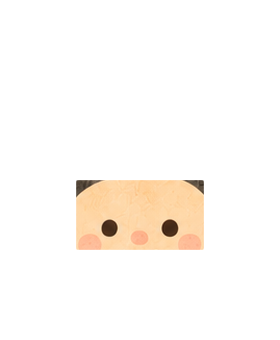
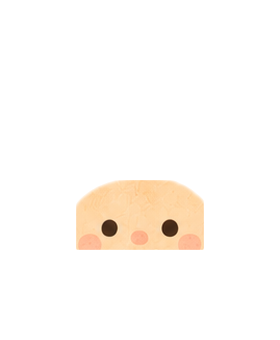
fix(game): 似顔絵の色のまちがいを二つ直した
■ 髪の色を変えても、こめかみに黒が残っていた
目と口は「肌ごと四角で貼りかえる」部品なのに、シートのもみあげの黒が
四角の角に入りこんでいた。目の層は髪の色を塗りかえないので、そこだけ
絵のままの黒で残ってしまっていた。金髪にすると目立つ。

髪は頭のてっぺんから続く大きなかたまり、目やまゆは顔のまんなかに
ぽつんとあるかたまり。この違いで切り分けて、髪のほうを部品から外した。
つり目のまゆは残っている。

■ 髪とひげの色がそろっていなかった
塗りかえの基準を、髪の明るさ（52くらい）に決め打ちしていた。
ところがひげの絵は髪より明るく描かれていて（93くらい）、掛け算が
振り切れて白く飛んでいた。

基準を「その絵じたいの平均の明るさ」に変え、平均のところがちょうど
えらんだ色になり、そこから暗いほう・明るいほうへ伸びる帯にのせ替える
ようにした。どの濃さの絵でも飛ばない。

あわせて、ひげは色をえらんでいなくても髪に合わせるようにした。
ひげの絵はもともと髪より明るい茶色なので、「絵のまま」でも髪とそろわ
なかったため。

■ 見張りを足した
  ・目と口の部品の暗い所が、顔のまんなかに収まっていること
    （髪が入りこむと横に広がるので、すぐ分かる）
  ・6色すべてで、髪とひげの色がそろっていること

Claude-Session: https://claude.ai/code/session_01YDGfKaHsr8bouS724EEhR3

Changed region(s): [[0.2571, 0.5294, 0.4286, 0.6176], [0.6, 0.5294, 0.7429, 0.5882]]

diff --git a/game/index.html b/game/index.html
@@ -1223,11 +1223,11 @@ const AV_ART = {
[16 lines of base64/hex data omitted]
@@ -1296,9 +1296,20 @@ function avLoad() {
   });
 }
 
-/* ---------- 色の塗りかえ ---------- */
-const AV_BASE_HAIR_LUM = (0x3a + 0x2c + 0x22) / 3;
+/* ---------- 色の塗りかえ ----------
+   絵は一色ぶんしかないので、明暗をたよりに色だけ移しかえる。
+
+   気をつけたのは、**絵によって濃さがちがう**こと。
+   髪は平均の明るさが 52 くらい、ひげは 93 くらいで、ずいぶんちがう。
+   決まった値を基準にすると、うすい絵（ひげ）のときに掛け算が
+   振り切れて、白っぽく飛んでしまう。
+   そこで、**その絵じたいの平均の明るさ**を基準にして、
+   「暗いほう → えらんだ色 → 明るいほう」の帯にのせ替えている。
+
+   いちばん左の色（絵のままの色）をえらんだときは、何もしない。 */
+const AV_BASE_HAIR_LUM = (0x3a + 0x2c + 0x22) / 3;   // 絵が無いときの控え
 const AV_BASE_SKIN = [0xfe, 0xd6, 0xa7];
+const AV_HAIR_MAX = 140;        // これより暗ければ「髪」とみなす
 const hex2rgb = (h) => [1, 3, 5].map(i => parseInt(h.slice(i, i + 2), 16));
 
 /* 部品ごとに、どこを塗りかえるか */
@@ -1325,19 +1336,46 @@ function avLayer(key, hairIdx, skinIdx) {
   const g = c.getContext("2d", { willReadFrequently: true });
   g.drawImage(img, 0, 0);
 
-  if (t.hair || t.skin) {
+  /* 0番（絵のままの色）のときは、絵をそのまま使う。
+     ただし**ひげだけは別**。ひげの絵は髪より明るい茶色で描かれているので、
+     そのままだと髪と色がそろわない。色をえらんでいなくても髪に合わせる */
+  const isBeard = avKind(key) === "beard";
+  const doHair = t.hair && (hairIdx > 0 || isBeard);
+  const doSkin = t.skin && skinIdx > 0;
+  if (doHair || doSkin) {
     const hair = hex2rgb(AV_HAIR_COLOR[hairIdx] || AV_HAIR_COLOR[0]);
     const skin = hex2rgb(AV_SKIN[skinIdx] || AV_SKIN[0]);
     const d = g.getImageData(0, 0, c.width, c.height), p = d.data;
+
+    /* ひとまわり目：この絵の「髪にあたる所」の明るさの平均を出す */
+    let ref = AV_BASE_HAIR_LUM;
+    if (doHair) {
+      let sum = 0, n = 0;
+      for (let i = 0; i < p.length; i += 4) {
+        if (p[i + 3] < 20) continue;
+        const lum = (p[i] + p[i + 1] + p[i + 2]) / 3;
+        if (lum < AV_HAIR_MAX) { sum += lum; n++; }
+      }
+      if (n > 40) ref = sum / n;
+    }
+    /* 平均のところがちょうど えらんだ色 になり、
+       そこから暗いほう・明るいほうへ伸びる帯をつくる */
+    const dk = hair.map(v => v * 0.45);
+    const lt = hair.map(v => v + (255 - v) * 0.40);
+
+    /* ふたまわり目：塗りかえる */
     for (let i = 0; i < p.length; i += 4) {
       if (p[i + 3] < 20) continue;
       const lum = (p[i] + p[i + 1] + p[i + 2]) / 3;
-      if (t.hair && lum < 140) {
-        const k = lum / AV_BASE_HAIR_LUM;              // 明暗の具合は残す
-        p[i]     = Math.min(255, hair[0] * k);
-        p[i + 1] = Math.min(255, hair[1] * k);
-        p[i + 2] = Math.min(255, hair[2] * k);
-      } else if (t.skin && lum >= 150 && p[i] > p[i + 2] + 35) {
+      if (doHair && lum < AV_HAIR_MAX) {
+        const r = lum / ref;
+        if (r <= 1) {
+          for (let k = 0; k < 3; k++) p[i + k] = dk[k] + (hair[k] - dk[k]) * r;
+        } else {
+          const u = Math.min(1, r - 1);
+          for (let k = 0; k < 3; k++) p[i + k] = hair[k] + (lt[k] - hair[k]) * u;
+        }
+      } else if (doSkin && lum >= 150 && p[i] > p[i + 2] + 35) {
         p[i]     = Math.min(255, p[i]     * skin[0] / AV_BASE_SKIN[0]);
         p[i + 1] = Math.min(255, p[i + 1] * skin[1] / AV_BASE_SKIN[1]);
         p[i + 2] = Math.min(255, p[i + 2] * skin[2] / AV_BASE_SKIN[2]);

diff --git a/art/avatar/tools/av-art.js b/art/avatar/tools/av-art.js
@@ -19,11 +19,11 @@ const AV_ART = {
[16 lines of base64/hex data omitted]

diff --git a/art/avatar/tools/build2.py b/art/avatar/tools/build2.py
@@ -48,12 +48,30 @@ def soft_rect(x0, y0, x1, y1, feather=3.0):
     m = np.zeros((H, W), np.float32); m[y0:y1, x0:x1] = 1
     return ndimage.gaussian_filter(m, feather)
 
+def not_hair(img):
+    """髪をよけたところを返す。
+       髪は頭のてっぺんから続く大きなかたまりなので、
+       顔のまんなかにぽつんとある目やまゆの黒とは切り離せる。
+       目の部品にもみあげが入りこむと、髪の色を変えたときに
+       そこだけ黒く残ってしまうため。"""
+    d = dark(img, 152)
+    lab, n = ndimage.label(d)
+    hair = np.zeros((H, W), bool)
+    for i in range(1, n + 1):
+        c = (lab == i)
+        ys, _ = np.where(c)
+        if ys.min() < 165 and c.sum() > 500:
+            hair |= c
+    soft = ndimage.gaussian_filter(
+        ndimage.binary_dilation(hair, np.ones((7, 7), bool)).astype(np.float32), 2.0)
+    return np.clip(1.0 - soft * 1.6, 0, 1)
+
 def cut_rect_and_mask(img, rect, mask, grow=2, blur=1.1):
     """四角（肌ごと貼りかえ）と、はみ出す部分（まゆなど）を合わせて抜く"""
     rm = soft_rect(*rect)
     mm = ndimage.binary_dilation(mask, np.ones((grow*2+1,)*2, bool))
     mm = np.clip((ndimage.gaussian_filter(mm.astype(np.float32), blur) - .35) / .4, 0, 1)
-    al = np.maximum(rm, mm)
+    al = np.maximum(rm, mm) * not_hair(img)      # 髪は持ちこまない
     a = np.asarray(img).copy()
     a[:, :, 3] = (a[:, :, 3] * al).astype(np.uint8)
     return Image.fromarray(a, 'RGBA')
@@ -101,10 +119,10 @@ for i, h in enumerate(heads): h.save(f'../parts/head{i:02d}.webp', **LL)
 print('■ 目 5種 ・ 口 5種')
 s2 = B.cells(S2)
 for i, c in enumerate(s2[11:16]):
-    m = inked(c) & zone(*EYE_ZONE)
+    m = inked(c) & zone(*EYE_ZONE) & (not_hair(c) > 0.5)
     cut_rect_and_mask(c, EYE_ERASE, m).save(f'../parts/eye{i}.webp', **LL)
 for i, c in enumerate(s2[16:21]):
-    m = inked(c) & zone(*MOUTH_ZONE)
+    m = inked(c) & zone(*MOUTH_ZONE) & (not_hair(c) > 0.5)
     cut_rect_and_mask(c, MOUTH_ERASE, m).save(f'../parts/mouth{i}.webp', **LL)
 
 print('■ メガネ 3種 ・ ピアス 3種 ・ ひげ 3種')

diff --git a/game/README.md b/game/README.md
@@ -725,6 +725,10 @@ HTML1ファイルだけでできています。外部ライブラリなし、通
 
 **髪の色と肌の色は、絵の明暗をそのままにして塗りかえています。**水彩のかすれや紙の目は消えません。塗りかえるのは髪（頭とひげ）と肌（頭と目と口の貼りかえぶん）だけで、帽子やめがねの色は動きません。
 
+塗りかえの基準は、**その絵じたいの平均の明るさ**です。決まった値を基準にすると、髪より明るく描かれているひげのときに掛け算が振り切れて、白く飛んでしまいます。平均のところがちょうど選んだ色になり、そこから暗いほう・明るいほうへ伸びる帯にのせ替えています。
+
+**ひげは、色を選んでいなくても髪に合わせます。**ひげの絵は髪より明るい茶色で描かれているので、そのままでは髪と色がそろいません。
+
 絵は `AV_ART`（名前 →「左・上・WebP」）に入っています。部品を足すときは、絵を1枚入れて `AV_HAIR` などの一覧に1行足すだけです。**番号はセーブに残るので、途中に差しこまず、うしろに足してください。**
 
 かぶりものを選ぶ列では被り物を外した見本を出すなど、**その部品を隠してしまうものは見本から外して**あります（`AV_HIDE`）。

diff --git a/art/avatar/README.md b/art/avatar/README.md
@@ -96,6 +96,16 @@ Pillow・numpy・scipy が要ります。
 2. `export.py` の `ORDER` に名前を足して書き出す
 3. `game/index.html` の `AV_HAIR` などの一覧に1行足す
 
-髪の色と肌の色の塗りかえは、絵の明暗をそのままにした掛け算です。
+髪の色と肌の色の塗りかえは、絵の明暗をそのままにした置きかえです。
 **髪は黒っぽく（明るさ140未満）、肌は明るく赤みのある色**で描いてください。
 帽子やめがねは塗りかえの対象外なので、好きな色で構いません。
+
+基準は**その絵じたいの平均の明るさ**なので、髪より明るい絵（ひげなど）でも
+白く飛びません。濃さをそろえる必要はありません。
+
+### 目と口の絵に、髪を入れないこと
+
+目と口は「肌ごと四角で貼りかえる」部品です。ここにシートの髪（もみあげ）が
+入りこむと、**髪の色を変えたときにそこだけ黒く残ります。**
+`build2.py` の `not_hair()` が、頭のてっぺんから続く大きな黒のかたまりを
+髪とみなして外しています。目やまゆは顔のまんなかにぽつんとあるので残ります。
